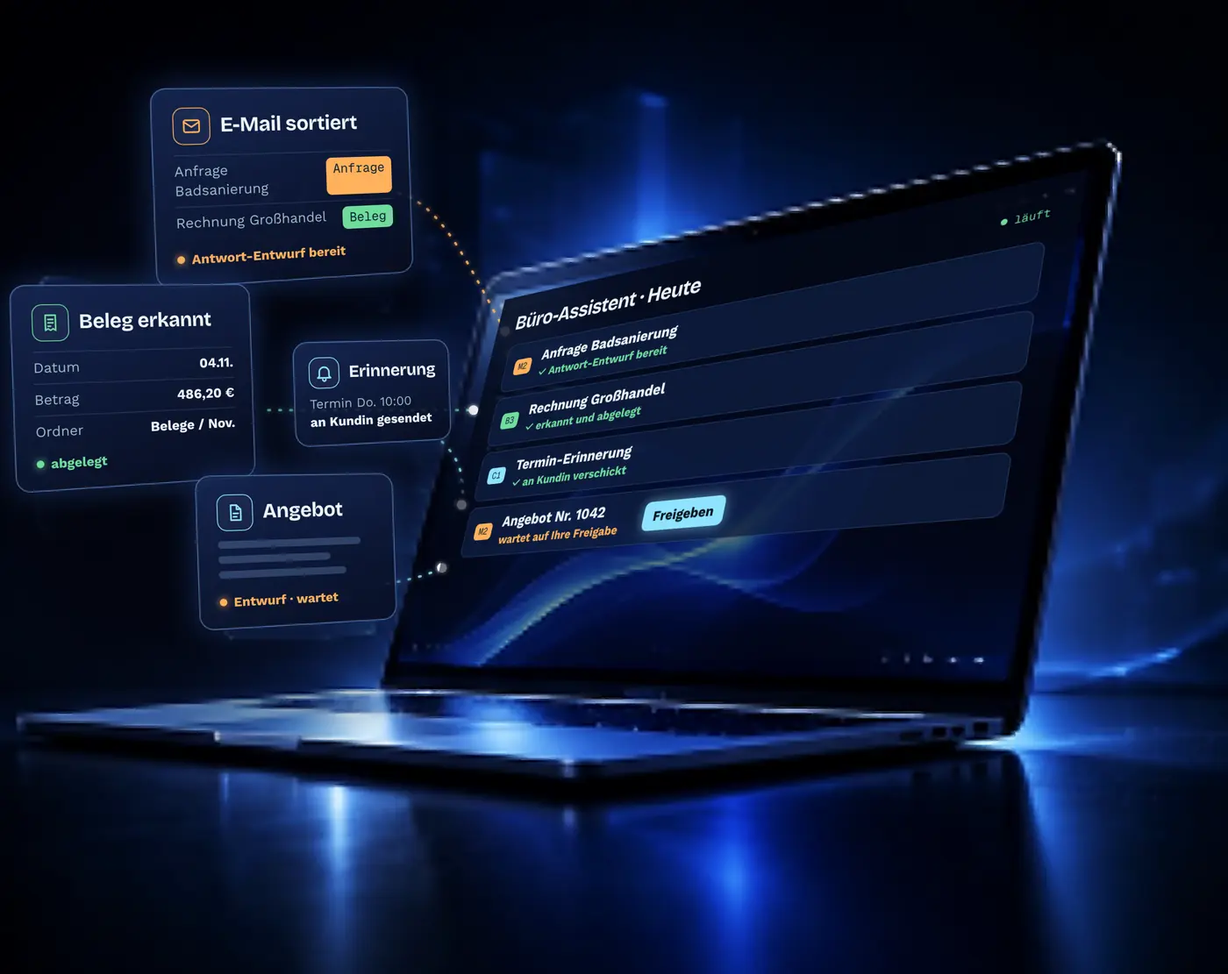
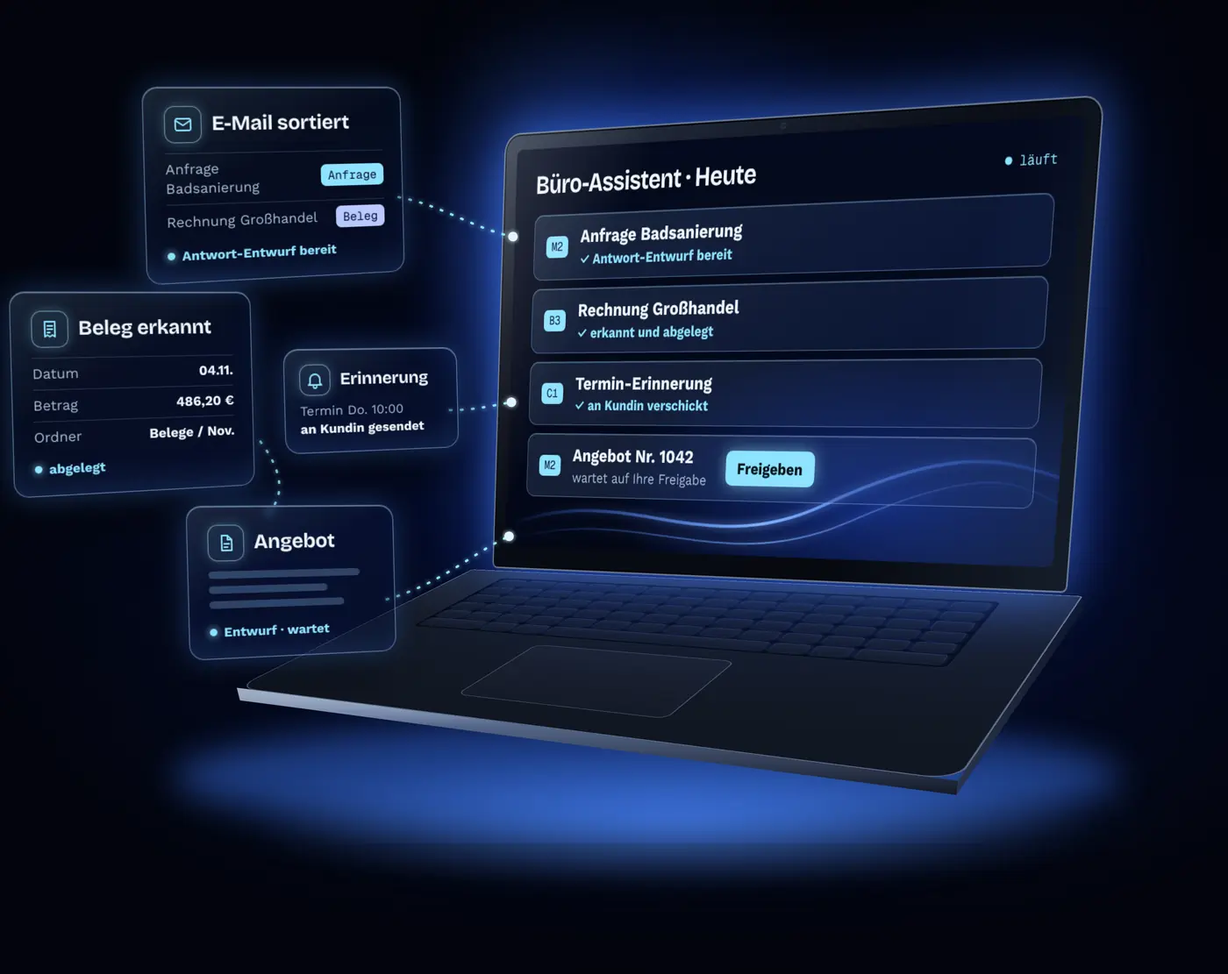
Laptop-Bild komplett neu und scharf gezeichnet, alle Boxen im hellblauen Glas-Look
- Laptop als Vektor-Szene neu aufgebaut (Gehäuse, Tastatur, Bildschirm),
  dadurch an jeder Kante scharf; Karten zur Büro-Automatisierung bleiben
- Boxen, Karten, Chips und Tabs: durchscheinender Hintergrund, hellblauer
  Rand, leichter Schimmer wie beim AI-Bild im Startbereich
- Orange und Grün durch Blautöne ersetzt, Texte unverändert

Claude-Session: https://claude.ai/code/session_019nyCnX8yvbisA25Y3R6eiz

diff --git a/index.html b/index.html
@@ -32,7 +32,7 @@
   --ly-scale: 0.96;
   /* the network: the dark board and its three lines */
   --board: #0a161d; --board-2: #10232d; --board-line: #1f3d4c; --board-ink: #e6f2f7; --board-muted: #9fb9c6;
-  --l-chat: #8fe3ff; --l-mail: #ffb15c; --l-office: #6fdc9c;
+  --l-chat: #8fe3ff; --l-mail: #6ea8ff; --l-office: #b9c9ff;
   --ease-out: cubic-bezier(0.23, 1, 0.32, 1);
 }
 ::selection { background: #8fe3ff; color: #04121a; }
@@ -67,7 +67,7 @@ h1, h2, h3 { text-wrap: balance; }
 .chat-card { position: absolute; right: var(--s-6); bottom: var(--s-6); width: 320px; z-index: 2; background: #f7fbfd; color: #0d2230; border-radius: 16px; overflow: hidden; box-shadow: 0 24px 48px -16px rgb(4 14 20 / .55), 0 2px 6px rgb(4 14 20 / .18); font-size: 14px; }
 .chat-card__h { display: flex; align-items: center; gap: 10px; padding: 12px 14px; background: #fff; border-bottom: 1px solid #dfe9ef; font-weight: 700; }
 .chat-card__h .av { width: 26px; height: 26px; border-radius: 50%; background: radial-gradient(circle at 35% 35%, #bdeeff, #1675ad); flex: none; }
-.chat-card__h small { margin-left: auto; font-weight: 400; font-size: 13px; color: #1d7a4a; }
+.chat-card__h small { margin-left: auto; font-weight: 400; font-size: 13px; color: #3f6fd8; }
 .chat-card__b { padding: 14px; display: grid; gap: 9px; }
 .msg { max-width: 86%; padding: 9px 12px; border-radius: 14px; line-height: 1.42; }
 .msg--me { justify-self: end; background: #0d2230; color: #fff; border-bottom-right-radius: 4px; }
@@ -193,18 +193,18 @@ main > section.ground-inverse { background: linear-gradient(180deg, rgb(7 18 25 
 .flow--big .flow-tall { display: none; }
 .flow .hd { font: 500 11px var(--font-mono); letter-spacing: .12em; fill: var(--board-muted); }
 .flow .nt--big { font: 700 17px var(--font-display); fill: #fff; }
-.flow .node--out { stroke: rgb(111 220 156 / .45); }
-.flow .hub { fill: #0c1c25; stroke: #ffb15c; stroke-width: 1.5; filter: drop-shadow(0 0 14px rgb(255 177 92 / .25)); }
-.flow .ok { fill: rgb(111 220 156 / .1); stroke: #6fdc9c; stroke-width: 1.5; filter: drop-shadow(0 0 14px rgb(111 220 156 / .3)); }
-.flow .warn { fill: rgb(255 177 92 / .06); stroke: #ffb15c; stroke-width: 1.3; stroke-dasharray: 5 4; }
-.flow .num { fill: #ffb15c; }
+.flow .node--out { stroke: rgb(185 201 255 / .45); }
+.flow .hub { fill: #0c1c25; stroke: #6ea8ff; stroke-width: 1.5; filter: drop-shadow(0 0 14px rgb(110 168 255 / .25)); }
+.flow .ok { fill: rgb(185 201 255 / .1); stroke: #b9c9ff; stroke-width: 1.5; filter: drop-shadow(0 0 14px rgb(185 201 255 / .3)); }
+.flow .warn { fill: rgb(110 168 255 / .06); stroke: #6ea8ff; stroke-width: 1.3; stroke-dasharray: 5 4; }
+.flow .num { fill: #6ea8ff; }
 .flow .numt { font: 700 12px var(--font-text); fill: #04121a; text-anchor: middle; }
-.flow .step-line { stroke: rgb(255 177 92 / .4); stroke-width: 1.5; }
+.flow .step-line { stroke: rgb(110 168 255 / .4); stroke-width: 1.5; }
 .flow .wire--in { stroke: rgb(143 227 255 / .5); stroke-width: 2; }
-.flow .wire--out { stroke: #ffb15c; stroke-width: 2; opacity: .75; }
-.flow .wire--ok { stroke: #6fdc9c; stroke-width: 1.6; opacity: .55; }
-.flow .wire--warn { stroke: #ffb15c; stroke-width: 1.5; stroke-dasharray: 4 4; opacity: .6; }
-.flow .pulse--ok { fill: #6fdc9c; }
+.flow .wire--out { stroke: #6ea8ff; stroke-width: 2; opacity: .75; }
+.flow .wire--ok { stroke: #b9c9ff; stroke-width: 1.6; opacity: .55; }
+.flow .wire--warn { stroke: #6ea8ff; stroke-width: 1.5; stroke-dasharray: 4 4; opacity: .6; }
+.flow .pulse--ok { fill: #b9c9ff; }
 @media (max-width: 899px) {
   .flow--big .flow-wide { display: none; }
   .flow--big .flow-tall { display: block; max-width: 460px; margin: 0 auto; }
@@ -229,7 +229,7 @@ main > section.ground-inverse { background: linear-gradient(180deg, rgb(7 18 25 
 .inbox { position: absolute; inset: var(--s-6); display: grid; align-content: center; gap: 10px; }
 .inbox__row { display: grid; grid-template-columns: 92px minmax(0,1fr) auto; gap: 12px; align-items: center; padding: 12px 14px; border-radius: 12px; background: var(--board-2); border: 1px solid var(--board-line); font-size: 14px; color: var(--board-ink); }
 .inbox__row b { font-weight: 500; overflow: hidden; text-overflow: ellipsis; white-space: nowrap; }
-.inbox__row em { font-style: normal; font-size: 13px; color: #6fdc9c; }
+.inbox__row em { font-style: normal; font-size: 13px; color: #b9c9ff; }
 .inbox__tag { justify-self: start; padding: 3px 10px; border-radius: 99px; font-size: 12.5px; color: #04121a; background: var(--c); }
 @media (max-width: 639px) { .inbox__row { grid-template-columns: 80px minmax(0,1fr); } .inbox__row em { display: none; } }
 /* ---------- industries ---------- */
@@ -266,7 +266,7 @@ main > section.ground-inverse { background: linear-gradient(180deg, rgb(7 18 25 
 .ask__f :focus-visible { outline: 2px solid #8fe3ff; outline-offset: 1px; border-color: #8fe3ff; }
 .ask__f [aria-invalid="true"] { border-color: #ff8a7a; }
 .ask__hp { position: absolute; left: -9999px; width: 1px; height: 1px; overflow: hidden; }
-.ask__err { color: #ffb0a5; font-size: 14px; }
+.ask__err { color: #cfe0ff; font-size: 14px; }
 .ask__row { display: flex; flex-wrap: wrap; align-items: center; gap: 10px 16px; margin-top: 4px; }
 .ask__send[disabled] { opacity: .6; cursor: progress; }
 .ask__note { font-size: 13px; color: #8eaab8; flex: 1 1 200px; }
@@ -277,7 +277,7 @@ main > section.ground-inverse { background: linear-gradient(180deg, rgb(7 18 25 
 .ask__done[hidden] { display: none; }
 .ask__done p { color: #b5ccd7; }
 .ask__done h2 { display: flex; align-items: flex-start; gap: 10px; }
-.ask__check { flex: none; width: 28px; height: 28px; margin-top: 2px; fill: none; stroke: #6fdc9c; stroke-width: 2.4; stroke-linecap: round; stroke-linejoin: round; }
+.ask__check { flex: none; width: 28px; height: 28px; margin-top: 2px; fill: none; stroke: #b9c9ff; stroke-width: 2.4; stroke-linecap: round; stroke-linejoin: round; }
 @media (max-width: 539px) { .ask__form { padding: 22px 18px; } .ask__two { grid-template-columns: 1fr; } .ask h2 { font-size: 22px; } }
 @media (prefers-reduced-motion: reduce) { .ask[open] { animation: none; } }
 /* ---------- JARVIS cockpit ---------- */
@@ -290,8 +290,8 @@ main > section.ground-inverse { background: linear-gradient(180deg, rgb(7 18 25 
 .ck-search { flex: 1; max-width: 360px; margin-left: 12px; height: 32px; display: flex; align-items: center; gap: 8px; padding: 0 10px; border-radius: 8px; border: 1px solid var(--ck-line); background: #0a1b23; color: #6f8d9b; }
 .ck-search svg { width: 14px; height: 14px; fill: none; stroke: currentColor; stroke-width: 2; }
 .ck-search kbd { margin-left: auto; font: 400 11px var(--font-mono); padding: 2px 6px; border-radius: 5px; border: 1px solid var(--ck-line); color: var(--ck-mut); }
-.ck-live { margin-left: auto; white-space: nowrap; display: flex; align-items: center; gap: 7px; padding: 5px 10px; border-radius: 99px; background: rgb(111 220 156 / .1); border: 1px solid rgb(111 220 156 / .35); color: #9be8bb; font-size: 12.5px; }
-.ck-live i { width: 7px; height: 7px; border-radius: 50%; background: #6fdc9c; }
+.ck-live { margin-left: auto; white-space: nowrap; display: flex; align-items: center; gap: 7px; padding: 5px 10px; border-radius: 99px; background: rgb(185 201 255 / .1); border: 1px solid rgb(185 201 255 / .35); color: #cfe0ff; font-size: 12.5px; }
+.ck-live i { width: 7px; height: 7px; border-radius: 50%; background: #b9c9ff; }
 .ck-date { font: 400 12px var(--font-mono); color: var(--ck-mut); }
 .ck-av { width: 28px; height: 28px; border-radius: 50%; display: grid; place-items: center; background: #163847; border: 1px solid #2f5668; font: 700 11px var(--font-text); color: #cfeaf5; }
 .cockpit__body { display: grid; grid-template-columns: 196px minmax(0, 1fr) 300px; min-height: 0; }
@@ -300,17 +300,17 @@ main > section.ground-inverse { background: linear-gradient(180deg, rgb(7 18 25 
 .ck-side svg { width: 15px; height: 15px; fill: none; stroke: currentColor; stroke-width: 1.7; stroke-linecap: round; stroke-linejoin: round; flex: none; }
 .ck-side .on { background: linear-gradient(90deg, rgb(143 227 255 / .16), rgb(143 227 255 / .04)); color: #fff; box-shadow: inset 2px 0 0 #8fe3ff; }
 .ck-side b { margin-left: auto; min-width: 20px; padding: 1px 6px; border-radius: 99px; text-align: center; font: 500 11px var(--font-mono); color: #04121a; background: #8fe3ff; }
-.ck-side b.w { background: #ffb15c; }
+.ck-side b.w { background: #6ea8ff; }
 .ck-side .ck-lbl { margin-top: 14px; padding: 6px 10px; font: 500 10.5px var(--font-mono); letter-spacing: .12em; color: #5f7d8b; }
 .ck-side .sub { font-size: 12.5px; padding: 6px 10px; }
-.ck-side .sub i { width: 7px; height: 7px; border-radius: 50%; background: #6fdc9c; flex: none; }
+.ck-side .sub i { width: 7px; height: 7px; border-radius: 50%; background: #b9c9ff; flex: none; }
 .ck-main { padding: 18px 20px; display: grid; gap: 14px; align-content: start; min-width: 0; }
 .ck-kpis { display: grid; grid-template-columns: repeat(4, minmax(0, 1fr)); gap: 10px; }
 .ck-kpi { padding: 12px 14px; border-radius: 12px; background: var(--ck-tile); border: 1px solid var(--ck-line); display: grid; gap: 2px; }
 .ck-kpi small { font-size: 12px; color: var(--ck-mut); }
 .ck-kpi b { font: 700 26px/1.1 var(--font-display); letter-spacing: -0.02em; color: #fff; }
-.ck-kpi em { font: 400 11.5px var(--font-mono); font-style: normal; color: #6fdc9c; }
-.ck-kpi em.w { color: #ffb15c; } .ck-kpi em.n { color: var(--ck-mut); }
+.ck-kpi em { font: 400 11.5px var(--font-mono); font-style: normal; color: #b9c9ff; }
+.ck-kpi em.w { color: #6ea8ff; } .ck-kpi em.n { color: var(--ck-mut); }
 .ck-grid { display: grid; grid-template-columns: minmax(0, 1.35fr) minmax(0, 1fr); gap: 14px; }
 .ck-box { border-radius: 12px; background: var(--ck-tile); border: 1px solid var(--ck-line); padding: 14px; display: grid; gap: 10px; align-content: start; min-width: 0; }
 .ck-h { display: flex; align-items: center; justify-content: space-between; font: 500 10.5px var(--font-mono); letter-spacing: .12em; text-transform: uppercase; color: #6f8d9b; }
@@ -320,7 +320,7 @@ main > section.ground-inverse { background: linear-gradient(180deg, rgb(7 18 25 
 .ck-msg--j { background: #15323f; color: var(--ck-ink); border-bottom-left-radius: 4px; }
 .ck-msg--j ul { margin: 6px 0 0; padding-left: 16px; color: #c3d8e2; }
 .ck-steps { display: grid; gap: 4px; padding: 8px 10px; border-radius: 10px; border: 1px dashed #24485a; font: 400 11.5px var(--font-mono); color: var(--ck-mut); }
-.ck-steps span::before { content: "✓ "; color: #6fdc9c; }
+.ck-steps span::before { content: "✓ "; color: #b9c9ff; }
 .ck-type { display: inline-flex; gap: 4px; padding: 10px 13px; border-radius: 12px; background: #15323f; justify-self: start; }
 .ck-type i { width: 6px; height: 6px; border-radius: 50%; background: #8fe3ff; animation: cktype 1.2s ease-in-out infinite; }
 .ck-type i:nth-child(2) { animation-delay: .15s; } .ck-type i:nth-child(3) { animation-delay: .3s; }
@@ -334,15 +334,15 @@ main > section.ground-inverse { background: linear-gradient(180deg, rgb(7 18 25 
 .ck-ev div { position: relative; padding: 7px 10px 7px 24px; border-radius: 8px; border: 1px solid var(--ck-line); background: rgb(143 227 255 / .04); }
 .ck-ev div::before { content: ""; position: absolute; left: 10px; top: 13px; width: 7px; height: 7px; border-radius: 50%; background: var(--c, #8fe3ff); }
 .ck-ev small { display: block; color: var(--ck-mut); font-size: 11.5px; }
-.ck-now { position: relative; height: 1px; margin: 2px 0 2px 44px; background: #ff7a7a; }
-.ck-now::before { content: ""; position: absolute; left: -4px; top: -3px; width: 7px; height: 7px; border-radius: 50%; background: #ff7a7a; }
+.ck-now { position: relative; height: 1px; margin: 2px 0 2px 44px; background: #8fe3ff; }
+.ck-now::before { content: ""; position: absolute; left: -4px; top: -3px; width: 7px; height: 7px; border-radius: 50%; background: #8fe3ff; }
 .ck-todo { display: grid; gap: 7px; font-size: 13px; color: #c3d8e2; }
 .ck-todo span { display: flex; align-items: center; gap: 9px; }
 .ck-todo span::before { content: ""; width: 13px; height: 13px; border-radius: 4px; border: 1.5px solid #3b6476; flex: none; }
 .ck-todo .done { color: #6f8d9b; text-decoration: line-through; }
-.ck-todo .done::before { background: #6fdc9c; border-color: #6fdc9c; }
+.ck-todo .done::before { background: #b9c9ff; border-color: #b9c9ff; }
 .ck-right { border-left: 1px solid var(--ck-line); padding: 18px 16px; display: grid; align-content: start; gap: 12px; background: rgb(6 18 24 / .4); }
-.ck-card { background: #12303d; border: 1px solid rgb(255 177 92 / .45); border-radius: 12px; padding: 12px 13px; display: grid; gap: 8px; font-size: 13.5px; box-shadow: 0 0 24px -12px rgb(255 177 92 / .5); }
+.ck-card { background: #12303d; border: 1px solid rgb(110 168 255 / .45); border-radius: 12px; padding: 12px 13px; display: grid; gap: 8px; font-size: 13.5px; box-shadow: 0 0 24px -12px rgb(110 168 255 / .5); }
 .ck-card small { color: #9fb9c6; font-size: 12px; }
 .ck-mail { padding: 9px 10px; border-radius: 8px; background: #0a1b23; border: 1px solid var(--ck-line); font-size: 12px; color: #b5ccd7; line-height: 1.45; }
 .ck-mail b { display: block; color: #fff; font-size: 12px; margin-bottom: 3px; }
@@ -351,11 +351,11 @@ main > section.ground-inverse { background: linear-gradient(180deg, rgb(7 18 25 
 .ck-btns span + span { background: transparent; border: 1px solid #2f5668; color: #c3d8e2; font-weight: 400; }
 .ck-flows { display: grid; gap: 9px; }
 .ck-flow { display: grid; grid-template-columns: 8px 1fr auto; gap: 4px 9px; align-items: center; font-size: 12.5px; color: #c3d8e2; }
-.ck-flow i { width: 8px; height: 8px; border-radius: 50%; background: #6fdc9c; }
-.ck-flow i.wait { background: #ffb15c; } .ck-flow i.plan { background: #3b6476; }
+.ck-flow i { width: 8px; height: 8px; border-radius: 50%; background: #b9c9ff; }
+.ck-flow i.wait { background: #6ea8ff; } .ck-flow i.plan { background: #3b6476; }
 .ck-flow time { font: 400 11px var(--font-mono); color: var(--ck-mut); }
 .ck-flow u { grid-column: 2 / -1; height: 3px; border-radius: 3px; background: #183644; text-decoration: none; overflow: hidden; }
-.ck-flow u::after { content: ""; display: block; height: 100%; width: var(--p, 100%); border-radius: 3px; background: var(--c, #6fdc9c); }
+.ck-flow u::after { content: ""; display: block; height: 100%; width: var(--p, 100%); border-radius: 3px; background: var(--c, #b9c9ff); }
 .ck-log { display: grid; gap: 5px; font: 400 11px/1.4 var(--font-mono); color: #7f9cab; }
 .ck-log span b { color: #8fe3ff; font-weight: 400; margin-right: 6px; }
 .jarvis-points { display: grid; grid-template-columns: repeat(3, minmax(0, 1fr)); gap: var(--s-6); margin-top: var(--s-7); }
@@ -428,11 +428,11 @@ main > section.ground-inverse { background: linear-gradient(180deg, rgb(7 18 25 
 .prob__row p { color: #b5ccd7; font-size: 15.5px; line-height: 1.55; }
 .prob__row p b { display: block; margin-bottom: 4px; font: 700 17px/1.3 var(--font-display); color: #fff; }
 .prob__row { align-items: start !important; }
-.prob__ic { width: 44px; height: 44px; border-radius: 12px; display: grid; place-items: center; background: rgb(255 177 92 / .12); border: 1px solid rgb(255 177 92 / .4); }
-.prob__ic svg { width: 22px; height: 22px; fill: none; stroke: #ffb15c; stroke-width: 1.7; stroke-linecap: round; stroke-linejoin: round; }
-.prob__fix { display: grid; grid-template-columns: 44px 1fr; gap: var(--s-4); align-items: center; padding: var(--s-4); margin-top: var(--s-2); border-radius: 14px; background: rgb(111 220 156 / .07); border: 1px solid rgb(111 220 156 / .35); }
+.prob__ic { width: 44px; height: 44px; border-radius: 12px; display: grid; place-items: center; background: rgb(110 168 255 / .12); border: 1px solid rgb(110 168 255 / .4); }
+.prob__ic svg { width: 22px; height: 22px; fill: none; stroke: #6ea8ff; stroke-width: 1.7; stroke-linecap: round; stroke-linejoin: round; }
+.prob__fix { display: grid; grid-template-columns: 44px 1fr; gap: var(--s-4); align-items: center; padding: var(--s-4); margin-top: var(--s-2); border-radius: 14px; background: rgb(185 201 255 / .07); border: 1px solid rgb(185 201 255 / .35); }
 .prob__fix p { color: #e6f2f7; font-size: 16.5px; }
-.prob__line { width: 44px; height: 10px; border-radius: 10px; background: #6fdc9c; }
+.prob__line { width: 44px; height: 10px; border-radius: 10px; background: #b9c9ff; }
 /* ---------- trust ---------- */
 .trust { align-items: stretch; }
 .trust__card { padding: var(--s-7); display: grid; gap: var(--s-4); align-content: start; }
@@ -624,6 +624,28 @@ main > section#buero, main > section#ki { height: auto !important; }
   .trade { padding: var(--s-6); }
   .route { min-height: 0; }
 }
+
+/* ---------- glass skin: every box in the light-blue translucent look of the hero ---------- */
+:root {
+  --glass: linear-gradient(155deg, rgb(160 205 255 / .12), rgb(80 130 240 / .05) 38%, rgb(6 14 36 / .62));
+  --glass-in: linear-gradient(155deg, rgb(160 205 255 / .09), rgb(10 22 50 / .38));
+  --glass-line: rgb(150 205 255 / .34);
+  --glass-line-in: rgb(150 205 255 / .24);
+  --glass-shadow: inset 0 1px 0 rgb(215 240 255 / .3), inset 1px 0 0 rgb(215 240 255 / .07), inset 0 -40px 80px -60px rgb(90 150 255 / .38), 0 0 36px -12px rgb(80 150 255 / .5), 0 40px 80px -40px rgb(0 0 0 / .75);
+  --glass-shadow-in: inset 0 1px 0 rgb(215 240 255 / .18), 0 0 18px -10px rgb(80 150 255 / .45);
+}
+.board, #leistungen .panel, .of-item, .of-rule, .of-x, .offer--feature, .cockpit, .ask, .consent {
+  background: var(--glass) !important; border: 1px solid var(--glass-line) !important; box-shadow: var(--glass-shadow) !important;
+  -webkit-backdrop-filter: blur(14px) saturate(140%); backdrop-filter: blur(14px) saturate(140%); }
+.offer--feature { border-bottom-color: var(--glass-line) !important; }
+.prob__row, .prob__fix, .trust__visual--me, .inbox__row, .ck-card, .ck-mail, .ck-ev div, .ck-steps, .wf-cards span {
+  background: var(--glass-in) !important; border: 1px solid var(--glass-line-in) !important; box-shadow: var(--glass-shadow-in) !important; }
+.of-item::before, .of-x::before { background: linear-gradient(90deg, transparent, rgb(143 227 255 / .9), transparent) !important; opacity: 1 !important; height: 1.5px !important; }
+.prob__ic, .of-ic { background: rgb(143 227 255 / .08) !important; border: 1px solid rgb(150 215 255 / .45) !important; box-shadow: inset 0 1px 0 rgb(215 240 255 / .25), 0 0 16px -4px rgb(143 227 255 / .45); }
+.prob__ic svg, .of-ic svg { stroke: #8fe3ff !important; }
+.chips button:not([aria-pressed="true"]), .line-tabs button:not([aria-selected="true"]), .ws-dots button:not([aria-pressed="true"]), .map-key button {
+  background: var(--glass-in) !important; border-color: var(--glass-line-in) !important; box-shadow: inset 0 1px 0 rgb(215 240 255 / .16); }
+.btn--secondary { background: linear-gradient(155deg, rgb(160 205 255 / .12), rgb(10 22 50 / .3)); border-color: rgb(150 205 255 / .4); box-shadow: inset 0 1px 0 rgb(215 240 255 / .22); }
 </style>
 </head>
 <body>
@@ -743,7 +765,7 @@ main > section#buero, main > section#ki { height: auto !important; }
       <figure class="buero-pic" data-reveal style="--d:80ms"><img src="assets/img/buero-laptop-1400.webp" srcset="assets/img/buero-laptop-800.webp 800w, assets/img/buero-laptop-1400.webp 1400w" sizes="(max-width: 899px) 92vw, 600px" width="1400" height="1111" alt="Laptop mit Büro-Assistent: E-Mails werden sortiert, Belege erkannt und abgelegt, Erinnerungen verschickt und Angebote als Entwurf zur Freigabe vorbereitet" loading="lazy" decoding="async"></figure>
       </div>
       <ul class="of-grid" data-reveal>
-        <li class="of-item" style="--c:#8fe3ff"><span class="of-ic" aria-hidden="true"><svg viewBox="0 0 24 24"><path d="M3 13l2.5-7h13L21 13v5H3z"/><path d="M3 13h5l1.5 2.5h5L16 13h5"/></svg></span><div><h3>Anfragen-Erfassung</h3><p>Anfragen aus Kontaktformular oder E-Mail werden erkannt, sortiert und in einer Liste gesammelt.</p></div></li><li class="of-item" style="--c:#ffb15c"><span class="of-ic" aria-hidden="true"><svg viewBox="0 0 24 24"><rect x="3" y="5" width="18" height="14" rx="2"/><path d="M3 7l9 6 9-6"/></svg></span><div><h3>E-Mail-Sortierung</h3><p>Mails werden nach Thema und Dringlichkeit geordnet, mit fertigem Antwort-Entwurf.</p></div></li><li class="of-item" style="--c:#6fdc9c"><span class="of-ic" aria-hidden="true"><svg viewBox="0 0 24 24"><path d="M6 3h9l4 4v14H6z"/><path d="M15 3v4h4M9 12h7M9 16h5"/></svg></span><div><h3>Angebots-Entwurf</h3><p>Aus einer Anfrage und Ihrer Preisliste entsteht ein Angebotsentwurf.</p></div></li><li class="of-item" style="--c:#8fe3ff"><span class="of-ic" aria-hidden="true"><svg viewBox="0 0 24 24"><path d="M6 16V11a6 6 0 0 1 12 0v5l1.5 2h-15z"/><path d="M10 20.5h4"/></svg></span><div><h3>Erinnerungen</h3><p>Termin-Erinnerungen an Kunden und Nachfassen bei offenen Angeboten.</p></div></li><li class="of-item" style="--c:#6fdc9c"><span class="of-ic" aria-hidden="true"><svg viewBox="0 0 24 24"><path d="M6 3h12v18l-3-2-3 2-3-2-3 2z"/><path d="M9 8h6M9 12h6"/></svg></span><div><h3>Beleg-Eingang</h3><p>Rechnungen und Belege werden erkannt, sinnvoll benannt und dem richtigen Ordner zugeordnet.</p></div></li><li class="of-item" style="--c:#ffb15c"><span class="of-ic" aria-hidden="true"><svg viewBox="0 0 24 24"><path d="M12 3.5l2.6 5.3 5.9.9-4.3 4.1 1 5.8-5.2-2.7-5.2 2.7 1-5.8L3.5 9.7l5.9-.9z"/></svg></span><div><h3>Bewertungs-Anfrage</h3><p>Zufriedene Kunden werden nach dem Auftrag um eine Google-Bewertung gebeten, nur mit Einwilligung.</p></div></li><li class="of-item" style="--c:#ffb15c"><span class="of-ic" aria-hidden="true"><svg viewBox="0 0 24 24"><path d="M12 3l9.5 17h-19z"/><path d="M12 10v4.5M12 17.5v.5"/></svg></span><div><h3>Fehler-Alarm</h3><p>Meldet sofort, wenn eine Automatisierung hakt.</p></div></li>
+        <li class="of-item" style="--c:#8fe3ff"><span class="of-ic" aria-hidden="true"><svg viewBox="0 0 24 24"><path d="M3 13l2.5-7h13L21 13v5H3z"/><path d="M3 13h5l1.5 2.5h5L16 13h5"/></svg></span><div><h3>Anfragen-Erfassung</h3><p>Anfragen aus Kontaktformular oder E-Mail werden erkannt, sortiert und in einer Liste gesammelt.</p></div></li><li class="of-item" style="--c:#6ea8ff"><span class="of-ic" aria-hidden="true"><svg viewBox="0 0 24 24"><rect x="3" y="5" width="18" height="14" rx="2"/><path d="M3 7l9 6 9-6"/></svg></span><div><h3>E-Mail-Sortierung</h3><p>Mails werden nach Thema und Dringlichkeit geordnet, mit fertigem Antwort-Entwurf.</p></div></li><li class="of-item" style="--c:#b9c9ff"><span class="of-ic" aria-hidden="true"><svg viewBox="0 0 24 24"><path d="M6 3h9l4 4v14H6z"/><path d="M15 3v4h4M9 12h7M9 16h5"/></svg></span><div><h3>Angebots-Entwurf</h3><p>Aus einer Anfrage und Ihrer Preisliste entsteht ein Angebotsentwurf.</p></div></li><li class="of-item" style="--c:#8fe3ff"><span class="of-ic" aria-hidden="true"><svg viewBox="0 0 24 24"><path d="M6 16V11a6 6 0 0 1 12 0v5l1.5 2h-15z"/><path d="M10 20.5h4"/></svg></span><div><h3>Erinnerungen</h3><p>Termin-Erinnerungen an Kunden und Nachfassen bei offenen Angeboten.</p></div></li><li class="of-item" style="--c:#b9c9ff"><span class="of-ic" aria-hidden="true"><svg viewBox="0 0 24 24"><path d="M6 3h12v18l-3-2-3 2-3-2-3 2z"/><path d="M9 8h6M9 12h6"/></svg></span><div><h3>Beleg-Eingang</h3><p>Rechnungen und Belege werden erkannt, sinnvoll benannt und dem richtigen Ordner zugeordnet.</p></div></li><li class="of-item" style="--c:#6ea8ff"><span class="of-ic" aria-hidden="true"><svg viewBox="0 0 24 24"><path d="M12 3.5l2.6 5.3 5.9.9-4.3 4.1 1 5.8-5.2-2.7-5.2 2.7 1-5.8L3.5 9.7l5.9-.9z"/></svg></span><div><h3>Bewertungs-Anfrage</h3><p>Zufriedene Kunden werden nach dem Auftrag um eine Google-Bewertung gebeten, nur mit Einwilligung.</p></div></li><li class="of-item" style="--c:#6ea8ff"><span class="of-ic" aria-hidden="true"><svg viewBox="0 0 24 24"><path d="M12 3l9.5 17h-19z"/><path d="M12 10v4.5M12 17.5v.5"/></svg></span><div><h3>Fehler-Alarm</h3><p>Meldet sofort, wenn eine Automatisierung hakt.</p></div></li>
       </ul>
       <div class="of-rules" data-reveal style="--d:80ms">
         <div class="of-rule"><span class="of-ic" aria-hidden="true"><svg viewBox="0 0 24 24"><path d="M9 3v5M15 3v5M7 8h10v3a5 5 0 0 1-10 0z"/><path d="M12 16v5"/></svg></span><p><b>Passt zu Ihren Programmen.</b> Alles läuft mit Gmail, Google Sheets, Webformularen und vielen anderen Programmen über Schnittstellen.</p></div>
@@ -751,7 +773,7 @@ main > section#buero, main > section#ki { height: auto !important; }
       </div>
       <div class="of-more" data-reveal>
         <div class="of-more__head"><h3>Auf Wunsch erweiterbar</h3><span class="of-more__tag">Zusatzbausteine auf Anfrage</span></div>
-        <ul class="of-xgrid"><li class="of-x" style="--c:#6fdc9c"><span class="of-ic of-ic--sm" aria-hidden="true"><svg viewBox="0 0 24 24"><path d="M3 8l9-5 9 5v8l-9 5-9-5z"/><path d="M3 8l9 5 9-5M12 13v8"/></svg></span><div><h4>Monats-Paket für den Steuerberater</h4><p>Alle Belege des Monats gesammelt, umbenannt, mit Übersichtsliste.</p></div></li><li class="of-x" style="--c:#ffb15c"><span class="of-ic of-ic--sm" aria-hidden="true"><svg viewBox="0 0 24 24"><path d="M6 3h9l4 4v14H6z"/><path d="M15 3v4h4"/><path d="M12 11v4M12 18v.5"/></svg></span><div><h4>Offene Rechnungen im Blick</h4><p>Erinnerung bei unbezahlter Rechnung, mit Entwurf für die Zahlungserinnerung.</p></div></li><li class="of-x" style="--c:#8fe3ff"><span class="of-ic of-ic--sm" aria-hidden="true"><svg viewBox="0 0 24 24"><path d="M6 3h9l4 4v14H6z"/><path d="M15 3v4h4M9 12h7M9 16h4"/></svg></span><div><h4>Rechnungs-Entwurf</h4><p>Nach erledigtem Auftrag direkt in lexoffice oder sevDesk.</p></div></li><li class="of-x" style="--c:#6fdc9c"><span class="of-ic of-ic--sm" aria-hidden="true"><svg viewBox="0 0 24 24"><path d="M4 20V4M4 20h16"/><path d="M8 16v-4M12 16V8M16 16v-6"/></svg></span><div><h4>Wochenbericht jeden Montag</h4><p>Neue Anfragen, Angebote, offene Rechnungen und Termine auf einen Blick.</p></div></li><li class="of-x" style="--c:#8fe3ff"><span class="of-ic of-ic--sm" aria-hidden="true"><svg viewBox="0 0 24 24"><rect x="3" y="5" width="18" height="16" rx="2"/><path d="M3 10h18M8 3v4M16 3v4M9 15l2 2 4-4"/></svg></span><div><h4>Online-Terminbuchung</h4><p>Mit automatischer Bestätigung und Erinnerung am Vortag.</p></div></li><li class="of-x" style="--c:#ffb15c"><span class="of-ic of-ic--sm" aria-hidden="true"><svg viewBox="0 0 24 24"><path d="M5 4h4l2 5-2.5 1.5a11 11 0 0 0 5 5L15 13l5 2v4a2 2 0 0 1-2 2A16 16 0 0 1 3 6a2 2 0 0 1 2-2z"/></svg></span><div><h4>Rückruf-Aufgaben</h4><p>Ein verpasster Anruf oder eine Anfrage wird zur Aufgabe für den richtigen Mitarbeiter.</p></div></li><li class="of-x" style="--c:#6fdc9c"><span class="of-ic of-ic--sm" aria-hidden="true"><svg viewBox="0 0 24 24"><circle cx="9" cy="8" r="3.5"/><path d="M2.5 20a6.5 6.5 0 0 1 13 0"/><path d="M16 4.5a3.5 3.5 0 0 1 0 7M18 14a6 6 0 0 1 3.5 6"/></svg></span><div><h4>Kundenliste (einfaches CRM)</h4><p>Füllt sich von selbst mit jeder neuen Anfrage.</p></div></li><li class="of-x" style="--c:#ffb15c"><span class="of-ic of-ic--sm" aria-hidden="true"><svg viewBox="0 0 24 24"><path d="M3 4h2l2.5 11h11L21 7H6.5"/><circle cx="9" cy="19.5" r="1.5"/><circle cx="17" cy="19.5" r="1.5"/></svg></span><div><h4>Nachbestell-Erinnerung</h4><p>Erinnert rechtzeitig, wenn Material oder Ware nachbestellt werden muss.</p></div></li><li class="of-x" style="--c:#8fe3ff"><span class="of-ic of-ic--sm" aria-hidden="true"><svg viewBox="0 0 24 24"><rect x="3" y="4" width="18" height="16" rx="2"/><circle cx="9" cy="10" r="2"/><path d="M21 16l-5-5-9 9"/></svg></span><div><h4>Social-Media-Entwürfe</h4><p>Aus Foto und Stichworten wird ein fertiger Post zum Freigeben.</p></div></li></ul>
+        <ul class="of-xgrid"><li class="of-x" style="--c:#b9c9ff"><span class="of-ic of-ic--sm" aria-hidden="true"><svg viewBox="0 0 24 24"><path d="M3 8l9-5 9 5v8l-9 5-9-5z"/><path d="M3 8l9 5 9-5M12 13v8"/></svg></span><div><h4>Monats-Paket für den Steuerberater</h4><p>Alle Belege des Monats gesammelt, umbenannt, mit Übersichtsliste.</p></div></li><li class="of-x" style="--c:#6ea8ff"><span class="of-ic of-ic--sm" aria-hidden="true"><svg viewBox="0 0 24 24"><path d="M6 3h9l4 4v14H6z"/><path d="M15 3v4h4"/><path d="M12 11v4M12 18v.5"/></svg></span><div><h4>Offene Rechnungen im Blick</h4><p>Erinnerung bei unbezahlter Rechnung, mit Entwurf für die Zahlungserinnerung.</p></div></li><li class="of-x" style="--c:#8fe3ff"><span class="of-ic of-ic--sm" aria-hidden="true"><svg viewBox="0 0 24 24"><path d="M6 3h9l4 4v14H6z"/><path d="M15 3v4h4M9 12h7M9 16h4"/></svg></span><div><h4>Rechnungs-Entwurf</h4><p>Nach erledigtem Auftrag direkt in lexoffice oder sevDesk.</p></div></li><li class="of-x" style="--c:#b9c9ff"><span class="of-ic of-ic--sm" aria-hidden="true"><svg viewBox="0 0 24 24"><path d="M4 20V4M4 20h16"/><path d="M8 16v-4M12 16V8M16 16v-6"/></svg></span><div><h4>Wochenbericht jeden Montag</h4><p>Neue Anfragen, Angebote, offene Rechnungen und Termine auf einen Blick.</p></div></li><li class="of-x" style="--c:#8fe3ff"><span class="of-ic of-ic--sm" aria-hidden="true"><svg viewBox="0 0 24 24"><rect x="3" y="5" width="18" height="16" rx="2"/><path d="M3 10h18M8 3v4M16 3v4M9 15l2 2 4-4"/></svg></span><div><h4>Online-Terminbuchung</h4><p>Mit automatischer Bestätigung und Erinnerung am Vortag.</p></div></li><li class="of-x" style="--c:#6ea8ff"><span class="of-ic of-ic--sm" aria-hidden="true"><svg viewBox="0 0 24 24"><path d="M5 4h4l2 5-2.5 1.5a11 11 0 0 0 5 5L15 13l5 2v4a2 2 0 0 1-2 2A16 16 0 0 1 3 6a2 2 0 0 1 2-2z"/></svg></span><div><h4>Rückruf-Aufgaben</h4><p>Ein verpasster Anruf oder eine Anfrage wird zur Aufgabe für den richtigen Mitarbeiter.</p></div></li><li class="of-x" style="--c:#b9c9ff"><span class="of-ic of-ic--sm" aria-hidden="true"><svg viewBox="0 0 24 24"><circle cx="9" cy="8" r="3.5"/><path d="M2.5 20a6.5 6.5 0 0 1 13 0"/><path d="M16 4.5a3.5 3.5 0 0 1 0 7M18 14a6 6 0 0 1 3.5 6"/></svg></span><div><h4>Kundenliste (einfaches CRM)</h4><p>Füllt sich von selbst mit jeder neuen Anfrage.</p></div></li><li class="of-x" style="--c:#6ea8ff"><span class="of-ic of-ic--sm" aria-hidden="true"><svg viewBox="0 0 24 24"><path d="M3 4h2l2.5 11h11L21 7H6.5"/><circle cx="9" cy="19.5" r="1.5"/><circle cx="17" cy="19.5" r="1.5"/></svg></span><div><h4>Nachbestell-Erinnerung</h4><p>Erinnert rechtzeitig, wenn Material oder Ware nachbestellt werden muss.</p></div></li><li class="of-x" style="--c:#8fe3ff"><span class="of-ic of-ic--sm" aria-hidden="true"><svg viewBox="0 0 24 24"><rect x="3" y="4" width="18" height="16" rx="2"/><circle cx="9" cy="10" r="2"/><path d="M21 16l-5-5-9 9"/></svg></span><div><h4>Social-Media-Entwürfe</h4><p>Aus Foto und Stichworten wird ein fertiger Post zum Freigeben.</p></div></li></ul>
       </div>
     </div>
   </section>
@@ -941,10 +963,10 @@ main > section#buero, main > section#ki { height: auto !important; }
               <div class="ck-box ck-box--cal">
                 <p class="ck-h">Heute <span>Kalender</span></p>
                 <div class="ck-cal">
-                  <div class="ck-ev"><time>08:30</time><div style="--c:#6fdc9c">Tageszusammenfassung<small>automatisch versendet</small></div></div>
+                  <div class="ck-ev"><time>08:30</time><div style="--c:#b9c9ff">Tageszusammenfassung<small>automatisch versendet</small></div></div>
                   <div class="ck-now"></div>
                   <div class="ck-ev"><time>10:00</time><div>Rückruf Werkstatt<small>Chatbot-Anfrage</small></div></div>
-                  <div class="ck-ev"><time>13:30</time><div style="--c:#ffb15c">Angebot Makler fertig machen<small>Entwurf liegt bereit</small></div></div>
+                  <div class="ck-ev"><time>13:30</time><div style="--c:#6ea8ff">Angebot Makler fertig machen<small>Entwurf liegt bereit</small></div></div>
                   <div class="ck-ev"><time>16:00</time><div>Kundentermin<small>Erinnerung geht 1 h vorher raus</small></div></div>
                 </div>
                 <p class="ck-h">Aufgaben <span>4 offen</span></p>
@@ -962,7 +984,7 @@ main > section#buero, main > section#ki { height: auto !important; }
             <div class="ck-flows">
               <div class="ck-flow"><i></i>Posteingang sortieren<time>07:41</time><u></u></div>
               <div class="ck-flow"><i></i>Tägliche Zusammenfassung<time>08:30</time><u></u></div>
-              <div class="ck-flow"><i class="wait"></i>Antwortentwürfe<time>09:22</time><u style="--p:66%;--c:#ffb15c"></u></div>
+              <div class="ck-flow"><i class="wait"></i>Antwortentwürfe<time>09:22</time><u style="--p:66%;--c:#6ea8ff"></u></div>
               <div class="ck-flow"><i class="plan"></i>Dokumente ablegen<time>12:00</time><u style="--p:0%"></u></div>
             </div>
             <p class="ck-h ck-h--log">Aktivität</p>
@@ -1188,14 +1210,14 @@ main > section#buero, main > section#ki { height: auto !important; }
 
   /* glowing assistant illustration in the knowledge-platform style */
   var SRC = [
-    ['PDF-Rechnungen', '#e5484d', '<path d="M-7-10h9l5 5v15h-14z" fill="#fff"/><text x="0" y="6" text-anchor="middle" font-size="7" font-weight="700" fill="#e5484d" font-family="Work, sans-serif">PDF</text>'],
+    ['PDF-Rechnungen', '#6ea8ff', '<path d="M-7-10h9l5 5v15h-14z" fill="#fff"/><text x="0" y="6" text-anchor="middle" font-size="7" font-weight="700" fill="#6ea8ff" font-family="Work, sans-serif">PDF</text>'],
     ['Angebote', '#2f6fe4', '<path d="M-7-10h9l5 5v15h-14z" fill="#fff"/><path d="M-4-2h8M-4 2h8M-4 6h5" stroke="#2f6fe4" stroke-width="1.6"/>'],
-    ['Tabellen', '#1f9d55', '<rect x="-9" y="-9" width="18" height="18" rx="2" fill="#fff"/><path d="M-9-3h18M-9 3h18M-3-9v18M3-9v18" stroke="#1f9d55" stroke-width="1.4"/>'],
-    ['Kalender', '#f08c2b', '<rect x="-9" y="-8" width="18" height="17" rx="2" fill="#fff"/><path d="M-9-3h18" stroke="#f08c2b" stroke-width="2"/><path d="M-5-11v5M5-11v5" stroke="#fff" stroke-width="2" stroke-linecap="round"/><text x="0" y="7" text-anchor="middle" font-size="8" font-weight="700" fill="#f08c2b" font-family="Work, sans-serif">12</text>'],
+    ['Tabellen', '#6ea8ff', '<rect x="-9" y="-9" width="18" height="18" rx="2" fill="#fff"/><path d="M-9-3h18M-9 3h18M-3-9v18M3-9v18" stroke="#6ea8ff" stroke-width="1.4"/>'],
+    ['Kalender', '#8fe3ff', '<rect x="-9" y="-8" width="18" height="17" rx="2" fill="#fff"/><path d="M-9-3h18" stroke="#8fe3ff" stroke-width="2"/><path d="M-5-11v5M5-11v5" stroke="#fff" stroke-width="2" stroke-linecap="round"/><text x="0" y="7" text-anchor="middle" font-size="8" font-weight="700" fill="#8fe3ff" font-family="Work, sans-serif">12</text>'],
     ['E-Mails', '#3a8ee6', '<rect x="-10" y="-7" width="20" height="14" rx="2" fill="#fff"/><path d="M-10-6 0 1 10-6" fill="none" stroke="#3a8ee6" stroke-width="1.6"/>'],
-    ['Kontaktformular', '#14a3a3', '<rect x="-8" y="-10" width="16" height="20" rx="2" fill="#fff"/><path d="M-4-5h8M-4-1h8M-4 3h8" stroke="#14a3a3" stroke-width="1.6"/><rect x="-4" y="6" width="5" height="2" fill="#14a3a3"/>'],
-    ['Website-Chat', '#0ea5c6', '<path d="M-10-7h20v12H-2l-5 5v-5h-3z" fill="#fff"/><circle cx="-4" cy="-1" r="1.4" fill="#0ea5c6"/><circle cx="0" cy="-1" r="1.4" fill="#0ea5c6"/><circle cx="4" cy="-1" r="1.4" fill="#0ea5c6"/>'],
-    ['Kundenliste', '#5b6b8a', '<ellipse cx="0" cy="-7" rx="8" ry="3" fill="#fff"/><path d="M-8-7v13c0 4 16 4 16 0V-7" fill="#fff"/><path d="M-8-1c0 4 16 4 16 0M-8 4c0 4 16 4 16 0" fill="none" stroke="#5b6b8a" stroke-width="1.4"/>']
+    ['Kontaktformular', '#4f8fff', '<rect x="-8" y="-10" width="16" height="20" rx="2" fill="#fff"/><path d="M-4-5h8M-4-1h8M-4 3h8" stroke="#4f8fff" stroke-width="1.6"/><rect x="-4" y="6" width="5" height="2" fill="#4f8fff"/>'],
+    ['Website-Chat', '#5aa0ff', '<path d="M-10-7h20v12H-2l-5 5v-5h-3z" fill="#fff"/><circle cx="-4" cy="-1" r="1.4" fill="#5aa0ff"/><circle cx="0" cy="-1" r="1.4" fill="#5aa0ff"/><circle cx="4" cy="-1" r="1.4" fill="#5aa0ff"/>'],
+    ['Kundenliste', '#4a7bd8', '<ellipse cx="0" cy="-7" rx="8" ry="3" fill="#fff"/><path d="M-8-7v13c0 4 16 4 16 0V-7" fill="#fff"/><path d="M-8-1c0 4 16 4 16 0M-8 4c0 4 16 4 16 0" fill="none" stroke="#4a7bd8" stroke-width="1.4"/>']
   ];
   var NS = 'http://www.w3.org/2000/svg';
   function drawGlow() {
@@ -1253,8 +1275,8 @@ main > section#buero, main > section#ki { height: auto !important; }
       '<text x="34" y="138" ' + f + ' font-size="12" font-weight="700" fill="#8fe3ff">Antwort</text>' +
       '<text x="34" y="160" ' + f + ' font-size="13" fill="#e6f2f7">Donnerstag sind 9:30 und 14:00 Uhr frei.</text><text x="34" y="178" ' + f + ' font-size="13" fill="#e6f2f7">Soll ich 9:30 für Sie vormerken?</text>' +
       '<text x="34" y="206" ' + f + ' font-size="11.5" fill="#9fc3d3">Quellen</text>' +
-      '<rect x="34" y="216" width="14" height="17" rx="2" fill="#e5484d"/><text x="56" y="229" ' + f + ' font-size="12" fill="#c5d6de">Leistungen-und-Preise.pdf</text>' +
-      '<rect x="34" y="244" width="14" height="14" rx="2" fill="#f08c2b"/><text x="56" y="256" ' + f + ' font-size="12" fill="#c5d6de">Werkstatt-Kalender</text>' +
+      '<rect x="34" y="216" width="14" height="17" rx="2" fill="#6ea8ff"/><text x="56" y="229" ' + f + ' font-size="12" fill="#c5d6de">Leistungen-und-Preise.pdf</text>' +
+      '<rect x="34" y="244" width="14" height="14" rx="2" fill="#8fe3ff"/><text x="56" y="256" ' + f + ' font-size="12" fill="#c5d6de">Werkstatt-Kalender</text>' +
       '<text x="22" y="312" ' + f + ' font-size="12" fill="#9fc3d3">War diese Antwort hilfreich?</text>' +
       '<path d="M' + (pw - 64) + ' 310v-8l4-6v6h6l-1 8z" fill="none" stroke="#9fc3d3" stroke-width="1.3"/><path d="M' + (pw - 36) + ' 300v8l4 6v-6h6l-1-8z" fill="none" stroke="#9fc3d3" stroke-width="1.3"/></g>';
     var ax = px + pw / 2, ay = py + ph + (narrow ? 70 : 74);
